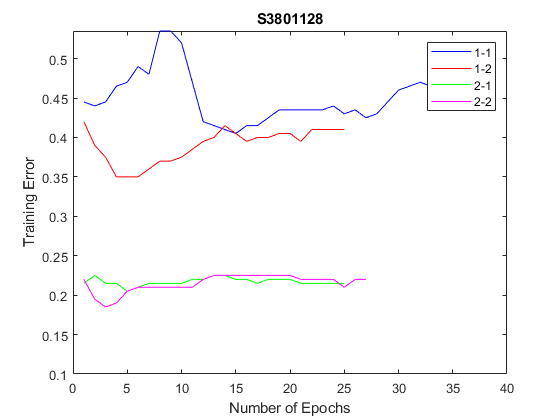
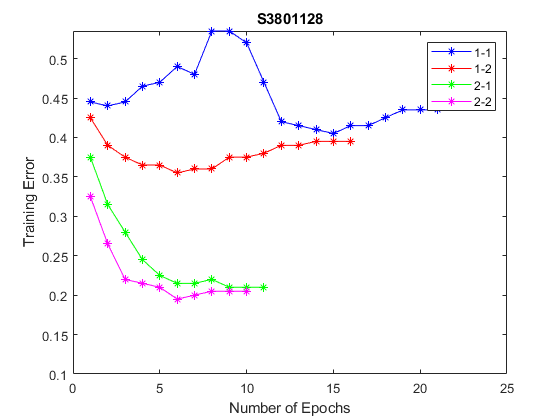
final

diff --git a/assignment1/train_lvq.m b/assignment1/train_lvq.m
@@ -31,8 +31,18 @@ while flag
     last_e = E(length_e);
     E = [E ; e];
     length_e = length_e +1;
-    if abs(e - last_e) < 0.0001 && length_e > num_epochs
-        flag =false;
+    %This is termination condition if diffeence of current and last one
+    %error is zero and number of epochs is greater than minimum number of
+    %epochs.
+    %if abs(e - last_e) == 0 %&& length_e > num_epochs
+        %flag =false;
+    %end
+    %This is termination condition when last three errors are same.
+    if length_e >= 4 % for comparing last three error.
+        last_three = E(size(E,1)-2:size(E,1),:); % last three elements of E
+        if all(last_three == last_three(1))
+            flag =false;
+        end
     end
 end
 
@@ -55,6 +65,7 @@ for i = [1:(n-1)]
 end
 p(l+1,:) = mean(class(start_i:shape(1),:)); % last prototype will be the mean of last remaining items
 
+%disp(p);
 end
 
 %following function is used to calculate error
@@ -70,16 +81,16 @@ total = rowsA+rowsB; % total number of samples
 wrong = 0 ;%number of wrong classification
 
 for i = [1:rowsA]
-    da = min(pdist2(classA(i,:),PA,'euclidean')); %minimum distance of ith sample of class A with all PA
-    db = min(pdist2(classA(i,:),PB,'euclidean')); %minimum distance of ith sample of class A with all PB
+    da = min(pdist2(classA(i,:),PA,'euclidean').^2); %minimum distance of ith sample of class A with all PA
+    db = min(pdist2(classA(i,:),PB,'euclidean').^2); %minimum distance of ith sample of class A with all PB
     
     if da>db
         wrong = wrong +1 ; % wrong classification
     end
 end
 for i = [1:rowsB]
-    da = min(pdist2(classB(i,:),PA,'euclidean')); %minimum distance of ith sample of class B with all PA
-    db = min(pdist2(classB(i,:),PB,'euclidean')); %minimum distance of ith sample of class B with all PB
+    da = min(pdist2(classB(i,:),PA,'euclidean').^2); %minimum distance of ith sample of class B with all PA
+    db = min(pdist2(classB(i,:),PB,'euclidean').^2); %minimum distance of ith sample of class B with all PB
     
     if db>da
         wrong = wrong +1 ; % wrong classification
@@ -115,7 +126,7 @@ for i = [1:total]
     elseif b_i > rowsB % means all elements of classb are seen
         rand_val = 0;
     else
-        if present_sequentialy
+        if present_sequentialy == true % if we want to present sequentialy.
             rand_val =0; %first present A
         else
             rand_val = randsample([0 1],1);
@@ -133,8 +144,8 @@ for i = [1:total]
     
     %now we have point as sample and its class as rand_val (0 -> A, 1->B)
     
-    [da,xa] = min(pdist2(sample,PA,'euclidean')); %minimum distance of sample with all PA
-    [db,xb] = min(pdist2(sample,PB,'euclidean')); %minimum distance of sample with all PB
+    [da,xa] = min(pdist2(sample,PA,'euclidean').^2); %minimum distance of sample with all PA
+    [db,xb] = min(pdist2(sample,PB,'euclidean').^2); %minimum distance of sample with all PB
     if da<db %means sample is calculated as class a
         if rand_val == 0 %means calculated and given classes are same so pull
             pull = 1;

diff --git a/assignment2/train_lvq.m b/assignment2/train_lvq.m
@@ -16,15 +16,32 @@ shapeB=size(classB);
 PA = initialize_for_one(classA,npa); 
 PB = initialize_for_one(classB,npb);
 
-
-length_e = 0; % number of epochs till now.
+E = zeros(1,1);
+length_e = 1; % number of epochs till now.
 flag = true; %flag true means keep training
 while flag
     
     [PA,PB] = run_each_epoch(classA,classB,PA,PB,lr,true);
+    e = calculate_error(classA,classB,PA,PB);
+    last_e = E(length_e);
+    E = [E ; e];
     length_e = length_e +1;
-    if length_e >= num_epochs
-        flag =false;
+    %if length_e >= num_epochs
+    %   flag =false;
+    %end
+    
+    %This is termination condition if diffeence of current and last one
+    %error is zero and number of epochs is greater than minimum number of
+    %epochs.
+    %if abs(e - last_e) == 0 %&& length_e > num_epochs
+        %flag =false;
+    %end
+    %This is termination condition when last three errors are same.
+    if length_e >= 4 % for comparing last three error.
+        last_three = E(size(E,1)-2:size(E,1),:); % last three elements of E
+        if all(last_three == last_three(1))
+            flag =false;
+        end
     end
 end
 
@@ -46,7 +63,7 @@ for i = [1:(n-1)]
     l=i;
 end
 p(l+1,:) = mean(class(start_i:shape(1),:)); % last prototype will be the mean of last remaining items
-
+%disp(p);
 end
 
 %following function is code for each epoch
@@ -93,8 +110,8 @@ for i = [1:total]
     
     %now we have point as sample and its class as rand_val (0 -> A, 1->B)
     
-    [da,xa] = min(pdist2(sample,PA,'euclidean')); %minimum distance of sample with all PA
-    [db,xb] = min(pdist2(sample,PB,'euclidean')); %minimum distance of sample with all PB
+    [da,xa] = min(pdist2(sample,PA,'euclidean').^2); %minimum distance of sample with all PA
+    [db,xb] = min(pdist2(sample,PB,'euclidean').^2); %minimum distance of sample with all PB
     if da<db %means sample is calculated as class a
         if rand_val == 0 %means calculated and given classes are same so pull
             pull = 1;

diff --git a/assignment2/calculate_error.m b/assignment2/calculate_error.m
@@ -11,16 +11,16 @@ total = rowsA+rowsB; % total number of samples
 wrong = 0 ;%number of wrong classification
 
 for i = [1:rowsA]
-    da = min(pdist2(classA(i,:),PA,'euclidean')); %minimum distance of ith sample of class A with all PA
-    db = min(pdist2(classA(i,:),PB,'euclidean')); %minimum distance of ith sample of class A with all PB
+    da = min(pdist2(classA(i,:),PA,'euclidean').^2); %minimum distance of ith sample of class A with all PA
+    db = min(pdist2(classA(i,:),PB,'euclidean').^2); %minimum distance of ith sample of class A with all PB
     
     if da>db
         wrong = wrong +1 ; % wrong classification
     end
 end
 for i = [1:rowsB]
-    da = min(pdist2(classB(i,:),PA,'euclidean')); %minimum distance of ith sample of class B with all PA
-    db = min(pdist2(classB(i,:),PB,'euclidean')); %minimum distance of ith sample of class B with all PB
+    da = min(pdist2(classB(i,:),PA,'euclidean').^2); %minimum distance of ith sample of class B with all PA
+    db = min(pdist2(classB(i,:),PB,'euclidean').^2); %minimum distance of ith sample of class B with all PB
     
     if db>da
         wrong = wrong +1 ; % wrong classification

diff --git a/assignment1/classification.m b/assignment1/classification.m
@@ -6,8 +6,8 @@ class_a=[];
 class_b=[];
 
 for i = [1:size(classA,1)]
-    da = min(pdist2(classA(i,:),PA,'euclidean')); %minimum distance of ith sample of class A with all PA
-    db = min(pdist2(classA(i,:),PB,'euclidean')); %minimum distance of ith sample of class A with all PB
+    da = min(pdist2(classA(i,:),PA,'euclidean').^2); %minimum distance of ith sample of class A with all PA
+    db = min(pdist2(classA(i,:),PB,'euclidean').^2); %minimum distance of ith sample of class A with all PB
     
     if da<db
        class_a = [class_a;classA(i,:)];
@@ -17,8 +17,8 @@ for i = [1:size(classA,1)]
 end
 
 for i = [1:size(classB,1)]
-    da = min(pdist2(classB(i,:),PA,'euclidean')); %minimum distance of ith sample of class A with all PA
-    db = min(pdist2(classB(i,:),PB,'euclidean')); %minimum distance of ith sample of class A with all PB
+    da = min(pdist2(classB(i,:),PA,'euclidean').^2); %minimum distance of ith sample of class A with all PA
+    db = min(pdist2(classB(i,:),PB,'euclidean').^2); %minimum distance of ith sample of class A with all PB
     
     if da<db
        class_a = [class_a;classB(i,:)];

diff --git a/assignment2/classification.m b/assignment2/classification.m
@@ -6,8 +6,8 @@ class_a=[];
 class_b=[];
 
 for i = [1:size(classA,1)]
-    da = min(pdist2(classA(i,:),PA,'euclidean')); %minimum distance of ith sample of class A with all PA
-    db = min(pdist2(classA(i,:),PB,'euclidean')); %minimum distance of ith sample of class A with all PB
+    da = min(pdist2(classA(i,:),PA,'euclidean').^2); %minimum distance of ith sample of class A with all PA
+    db = min(pdist2(classA(i,:),PB,'euclidean').^2); %minimum distance of ith sample of class A with all PB
     
     if da<db
        class_a = [class_a;classA(i,:)];
@@ -17,8 +17,8 @@ for i = [1:size(classA,1)]
 end
 
 for i = [1:size(classB,1)]
-    da = min(pdist2(classB(i,:),PA,'euclidean')); %minimum distance of ith sample of class A with all PA
-    db = min(pdist2(classB(i,:),PB,'euclidean')); %minimum distance of ith sample of class A with all PB
+    da = min(pdist2(classB(i,:),PA,'euclidean').^2); %minimum distance of ith sample of class A with all PA
+    db = min(pdist2(classB(i,:),PB,'euclidean').^2); %minimum distance of ith sample of class A with all PB
     
     if da<db
        class_a = [class_a;classB(i,:)];

diff --git a/assignment1/assignment1.m b/assignment1/assignment1.m
@@ -17,7 +17,7 @@ legend({'ClassA','ClassB'});
 E_new = E(2:size(E,1));
 figure;
 X = [1:size(E_new,1)];
-plot(X,E_new,'b');
+plot(X,E_new,'b','Marker','*');
 
 title('S3801128');
 xlabel('Number of Epochs');
@@ -31,28 +31,28 @@ figure;
 [PA,PB,E] = train_lvq(matA,matB,1,1,0.01,25);
 E_new = E(2:size(E,1));
 X = [1:size(E_new,1)];
-plot(X,E_new,'b');
+plot(X,E_new,'b','Marker','*');
 hold on;
 
 %1-2
 [PA,PB,E] = train_lvq(matA,matB,1,2,0.01,25);
 E_new = E(2:size(E,1));
 X = [1:size(E_new,1)];
-plot(X,E_new,'r');
+plot(X,E_new,'r','Marker','*');
 hold on;
 
 %2-1
 [PA,PB,E] = train_lvq(matA,matB,2,1,0.01,25);
 E_new = E(2:size(E,1));
 X = [1:size(E_new,1)];
-plot(X,E_new,'g');
+plot(X,E_new,'g','Marker','*');
 hold on;
 
 %2-2
 [PA,PB,E] = train_lvq(matA,matB,2,2,0.01,25);
 E_new = E(2:size(E,1));
 X = [1:size(E_new,1)];
-plot(X,E_new,'m');
+plot(X,E_new,'m','Marker','*');
 hold on;
 
 

diff --git a/assignment3/train_lvq.m b/assignment3/train_lvq.m
@@ -38,8 +38,19 @@ while flag
     L1= [L1;l1];
     L2=[L2;l2];
     length_e = length_e +1;
-    if abs(e - last_e) < 0.0001 && length_e > num_epochs
-        flag =false;
+    
+    %This is termination condition if diffeence of current and last one
+    %error is zero and number of epochs is greater than minimum number of
+    %epochs.
+    %if abs(e - last_e) == 0 %&& length_e > num_epochs
+        %flag =false;
+    %end
+    %This is termination condition when last three errors are same.
+    if length_e >= 4 % for comparing last three error.
+        last_three = E(size(E,1)-2:size(E,1),:); % last three elements of E
+        if all(last_three == last_three(1))
+            flag =false;
+        end
     end
 end
 

diff --git a/assignment1/random_practice.m b/assignment1/random_practice.m
@@ -1,0 +1,10 @@
+clear all;
+load('data_lvq_A.mat','matA');
+load('data_lvq_B.mat','matB');
+
+%training lvq1
+[PA,PB,E] = train_lvq(matA,matB,2,1,0.01,25);
+E_new = E(2:size(E,1));
+figure;
+X = [1:size(E_new,1)];
+plot(X,E_new,'b','Marker','*');

diff --git a/assignment3/assignment3.m b/assignment3/assignment3.m
@@ -25,7 +25,7 @@ figure;
 subplot(1,2,1);
 E_new = E(2:size(E,1));
 X = [1:size(E_new,1)];
-plot(X,E_new,'m');
+plot(X,E_new,'m','Marker','*');
 hold on;
 title('Training Error');
 xlabel('Number of Epochs');
